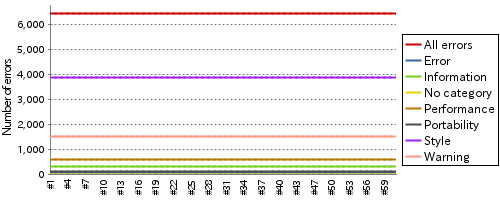
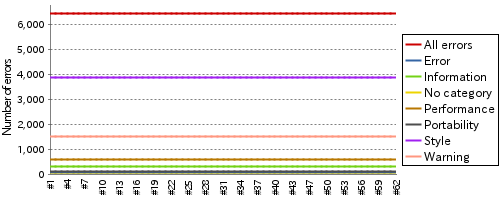
update report

diff --git a/index.md b/index.md
@@ -2,7 +2,7 @@
 layout: default
 ---
 # Jenkins CI report For HRG
-## Build and test report (2015/07/06 05:28:24)
+## Build and test report (2015/07/06 06:28:25)
 ### Build Status
 ___
 ![Build Status](http://jenkinshrg.github.io/images/badge.svg)
@@ -31,12 +31,13 @@ UNSTABLE
 * Stability
   
 ![Jenkins Icon](http://jenkinshrg.github.io/images/48x48/health-00to19.png)
-13%
+12%
   
 * Latest Results
   
 |Status|Time|Duration|Changes|Build|Test|Note|
 |---|---|---|---|---|---|---|
+|![Jenkins Icon](http://jenkinshrg.github.io/images/24x24/yellow.png)UNSTABLE|2015/07/06 06:00|28 min.||[BUILD](https://drive.google.com/file/d/0B54sHwaxmuM4c3hUTFB5UDJ2ZDQ/view?usp=drivesdk) |[CONSOLE](https://drive.google.com/file/d/0B54sHwaxmuM4Y0dueXVIcDUyeW8/view?usp=drivesdk) [IMAGE](https://drive.google.com/file/d/0B54sHwaxmuM4SWJhSHZ0NE1JOG8/edit?usp=drivesdk) [VIDEO](https://drive.google.com/file/d/0B54sHwaxmuM4VjFvZXA5UDEzTjA/edit?usp=drivesdk) |STOP NORMAL|
 |![Jenkins Icon](http://jenkinshrg.github.io/images/24x24/yellow.png)UNSTABLE|2015/07/06 05:00|28 min.||[BUILD](https://drive.google.com/file/d/0B54sHwaxmuM4WVJUbkYweHVCRjA/view?usp=drivesdk) |[CONSOLE](https://drive.google.com/file/d/0B54sHwaxmuM4bk5nMVR0ajB4Z0E/view?usp=drivesdk) [IMAGE](https://drive.google.com/file/d/0B54sHwaxmuM4aG0tUVg1a0dFM0k/edit?usp=drivesdk) [VIDEO](https://drive.google.com/file/d/0B54sHwaxmuM4VDNBcnduVUZteVk/edit?usp=drivesdk) |STOP RED|
 |![Jenkins Icon](http://jenkinshrg.github.io/images/24x24/yellow.png)UNSTABLE|2015/07/06 04:00|28 min.||[BUILD](https://drive.google.com/file/d/0B54sHwaxmuM4bmEtQTJWQ3JpUkE/view?usp=drivesdk) |[CONSOLE](https://drive.google.com/file/d/0B54sHwaxmuM4NVFWV3VmNndJdFU/view?usp=drivesdk) [IMAGE](https://drive.google.com/file/d/0B54sHwaxmuM4eVBOT2owYXRDUlE/edit?usp=drivesdk) [VIDEO](https://drive.google.com/file/d/0B54sHwaxmuM4NmJobkdLNHFOdDg/edit?usp=drivesdk) |STOP RED|
 |![Jenkins Icon](http://jenkinshrg.github.io/images/24x24/yellow.png)UNSTABLE|2015/07/06 03:00|28 min.||[BUILD](https://drive.google.com/file/d/0B54sHwaxmuM4SmpadTdYd2pYWlU/view?usp=drivesdk) |[CONSOLE](https://drive.google.com/file/d/0B54sHwaxmuM4OTk5d1dYaGx2Mmc/view?usp=drivesdk) [IMAGE](https://drive.google.com/file/d/0B54sHwaxmuM4NkNvdVdmLTNjMzQ/edit?usp=drivesdk) [VIDEO](https://drive.google.com/file/d/0B54sHwaxmuM4ejZoNHNwQnhZeWs/edit?usp=drivesdk) |STOP NORMAL|
